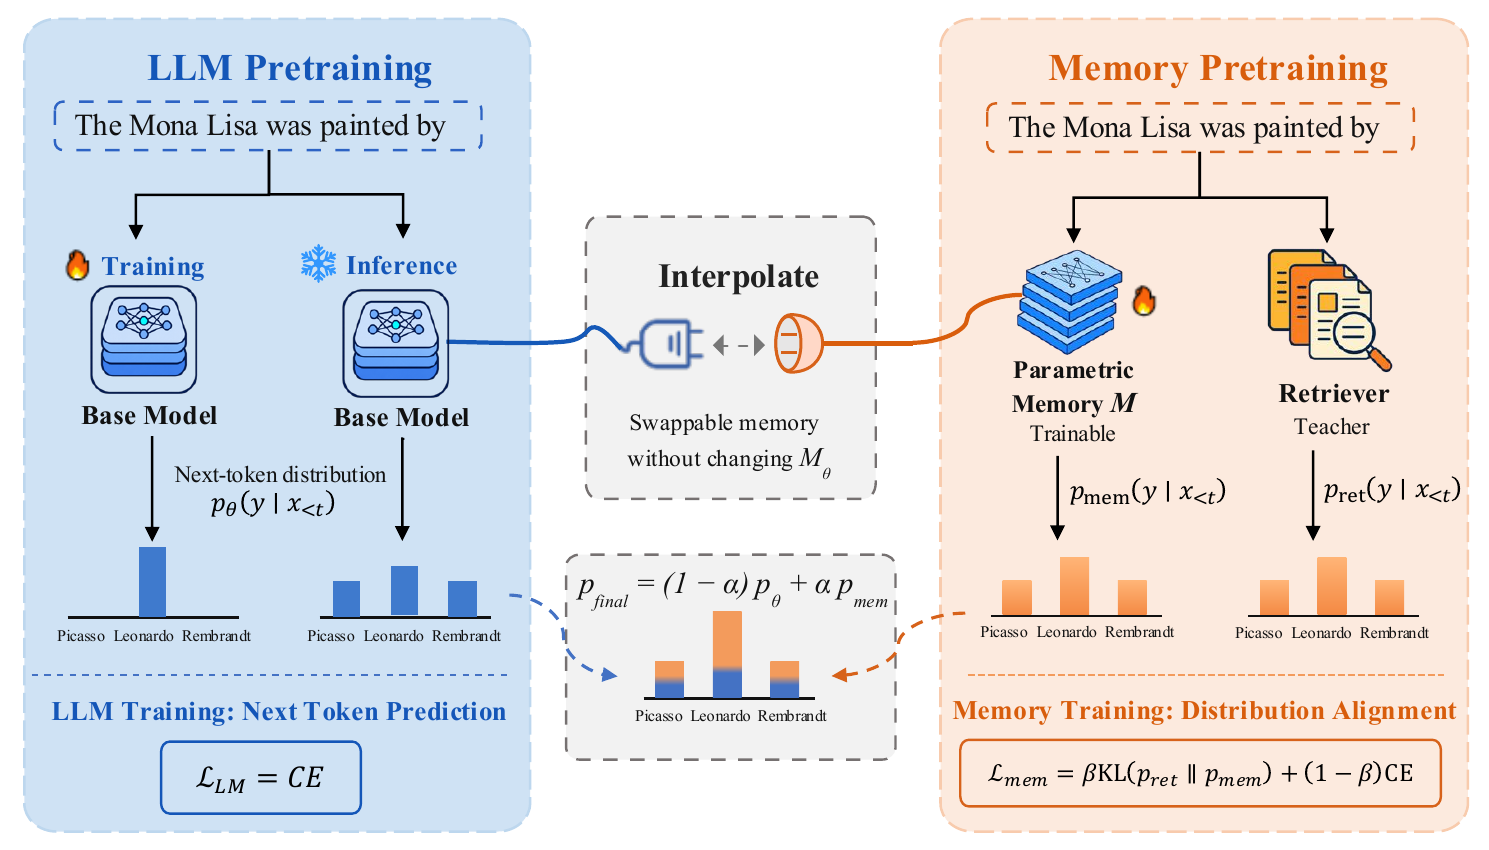
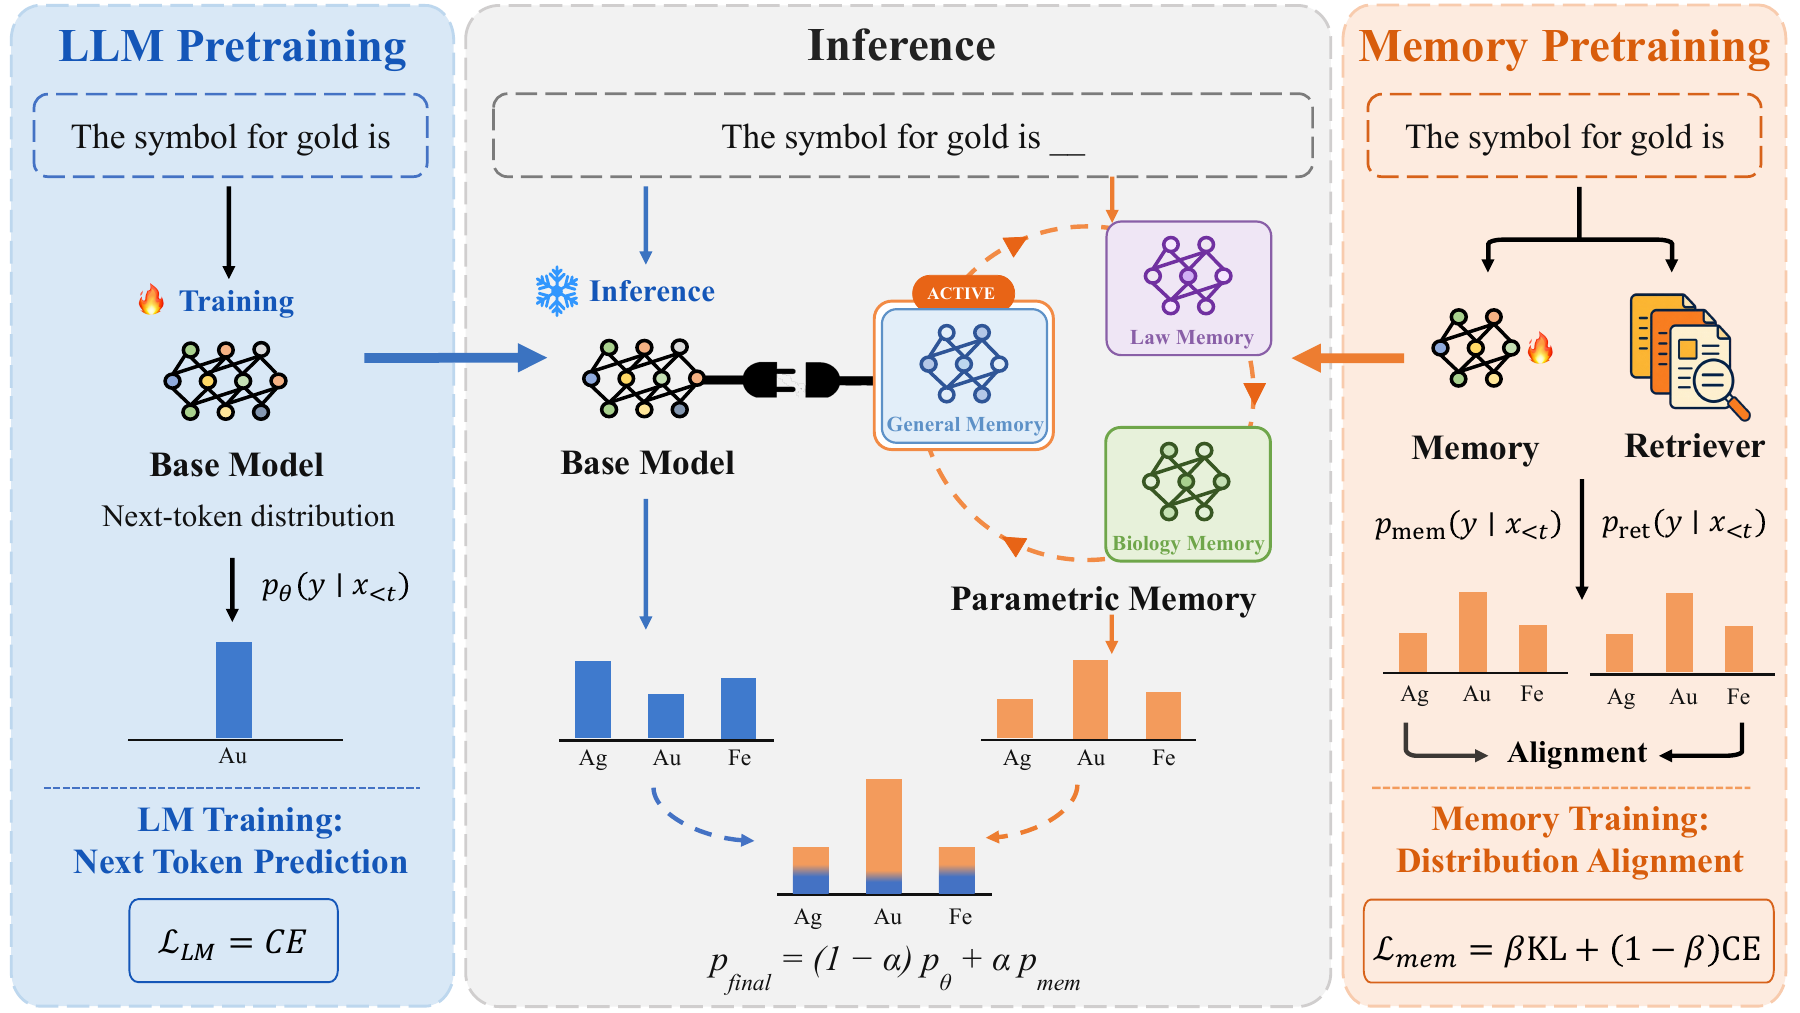
Update paper figures on project page

diff --git a/app/page.tsx b/app/page.tsx
@@ -125,8 +125,8 @@ export default function Home() {
           <Image
             src={asset("/paper/overview.png")}
             alt="The base model is trained for next-token prediction, the parametric memory aligns with a retriever distribution, and their predictions are interpolated at inference."
-            width={1489}
-            height={850}
+            width={1800}
+            height={1013}
           />
           <figcaption>Independent pretraining preserves role separation; inference requires no online datastore.</figcaption>
         </figure>
@@ -164,8 +164,8 @@ export default function Home() {
             <Image
               src={asset("/paper/construction.png")}
               alt="OPQ compression, HNSW and IVF two-level routing, and independent search over centroid-range shards."
-              width={1410}
-              height={532}
+              width={1800}
+              height={884}
             />
             <figcaption>Queries are grouped by shard ID so each selected shard can search its batch independently with GPU acceleration.</figcaption>
           </figure>
@@ -186,8 +186,8 @@ export default function Home() {
               <Image
                 src={asset("/paper/transfer.png")}
                 alt="Average score across 18 tasks versus total parameters, comparing frozen base models with base plus memory configurations."
-                width={1195}
-                height={710}
+                width={1800}
+                height={1070}
               />
               <span>Open full size <Arrow /></span>
             </a>
